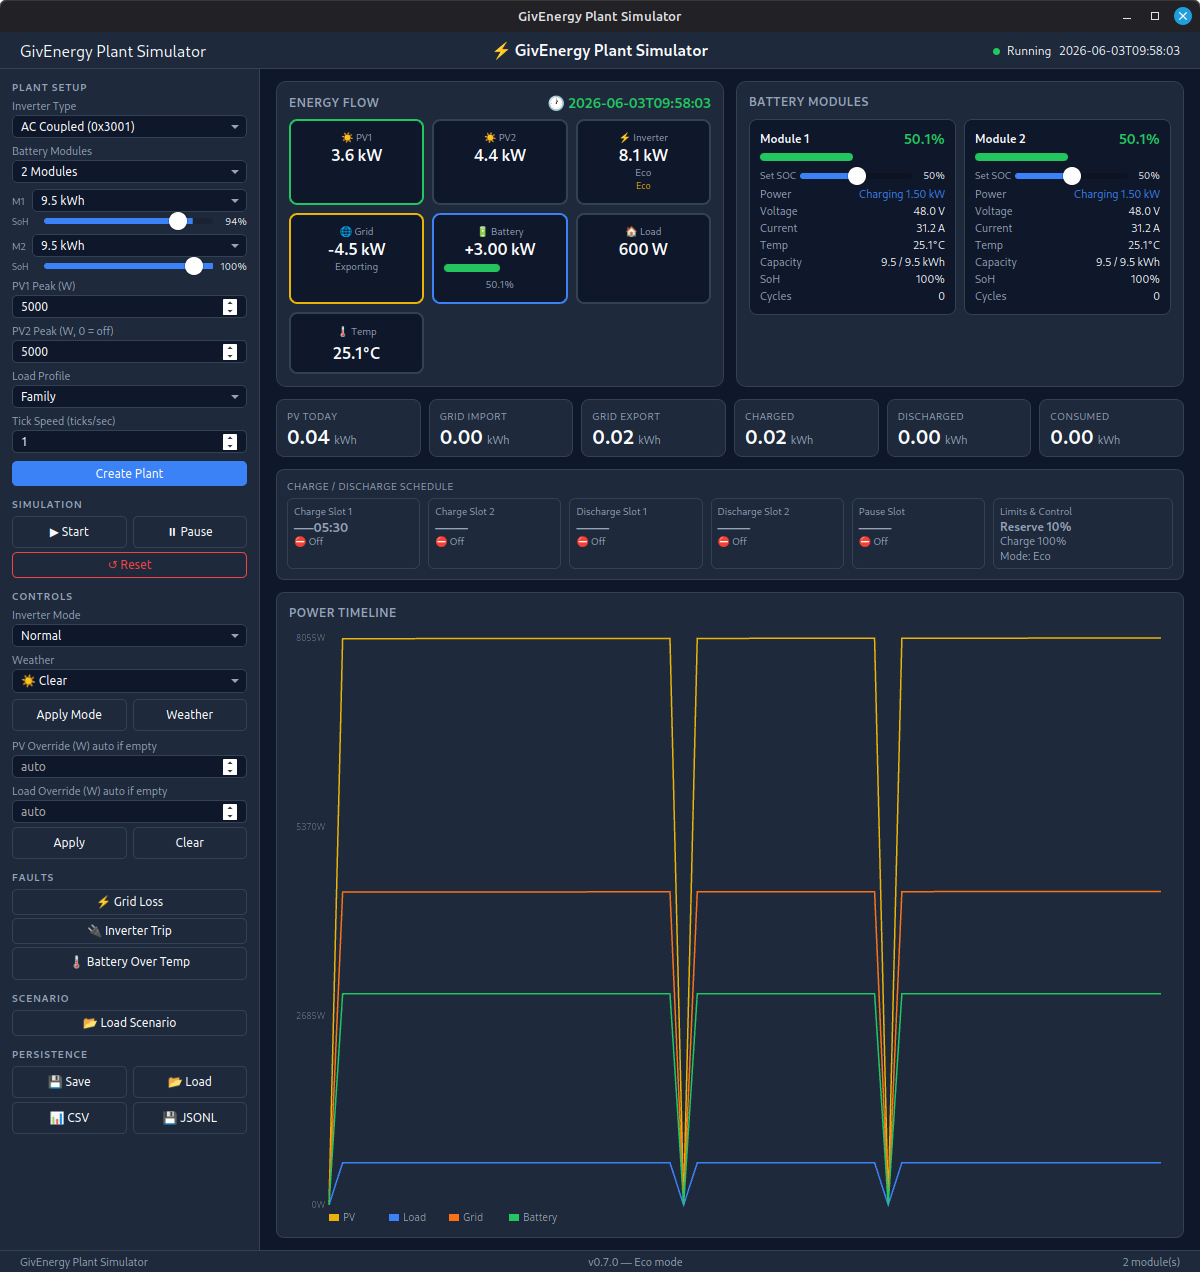
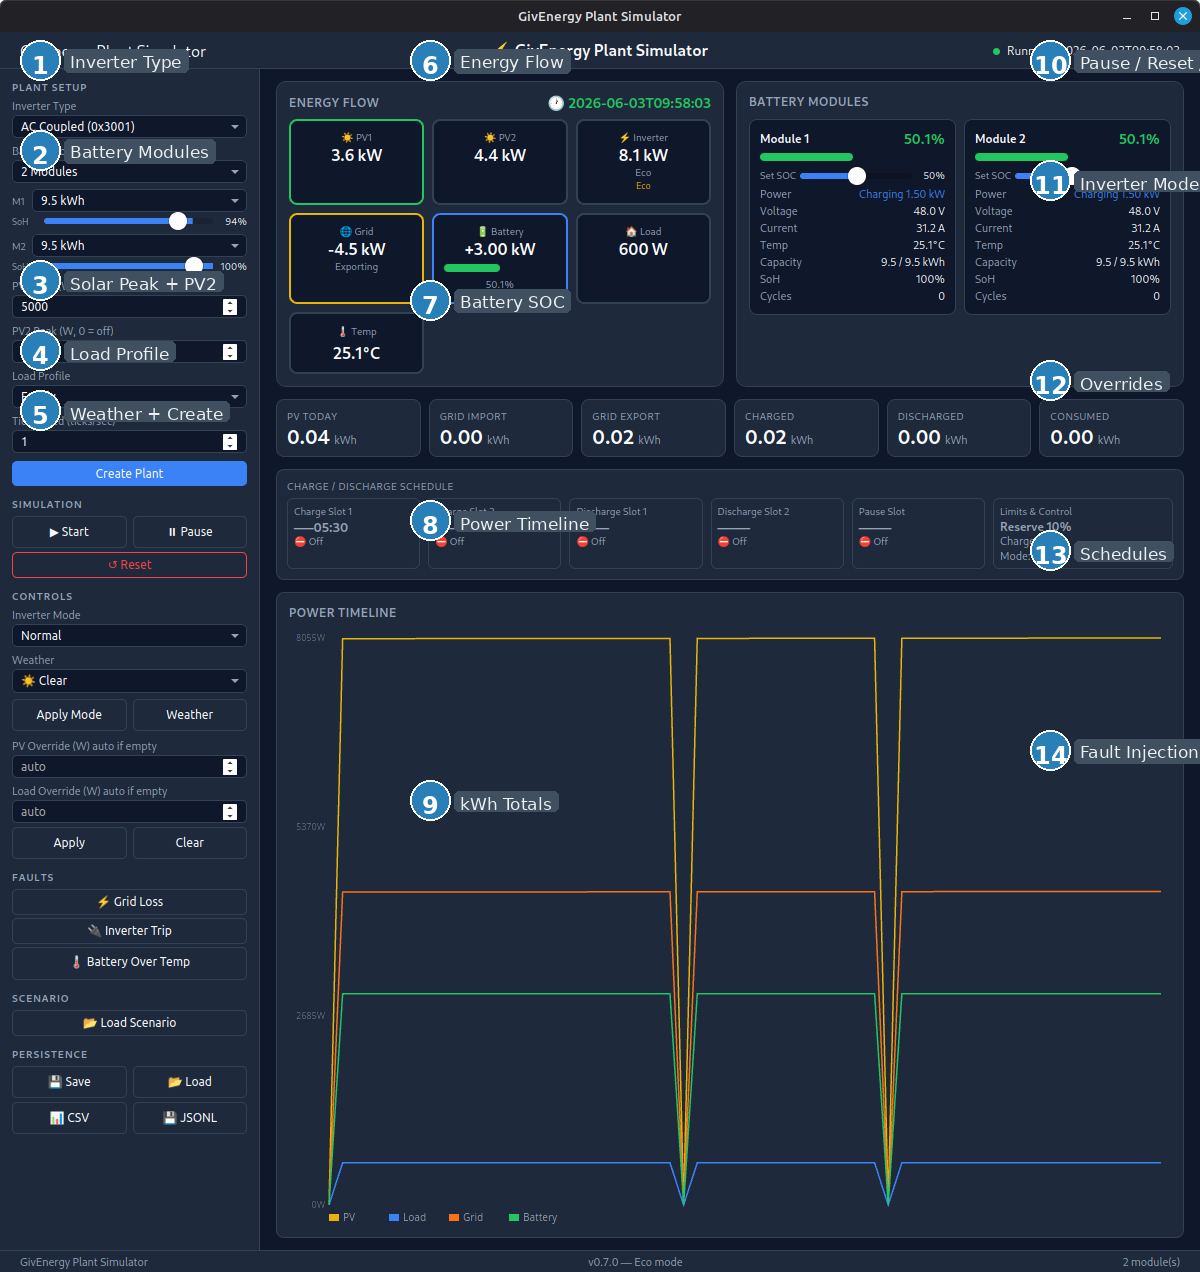
docs: annotate screenshot with 14 numbered UI regions + legend table

diff --git a/README.md b/README.md
@@ -18,6 +18,23 @@ A digital twin of a GivEnergy solar PV + battery storage system. Model your Gen3
 
 ![GivEnergy Plant Simulator Dashboard](docs/screenshot.png)
 
+| # | Area |
+|---|------|
+| 1 | Inverter type selector |
+| 2 | Battery module config (capacity + SOH slider) |
+| 3 | Solar peak + optional PV2 peak |
+| 4 | Load profile and weather |
+| 5 | **Create Plant** button |
+| 6 | Energy flow diagram — live power arrows between Solar, Battery, Grid, Load |
+| 7 | Battery SOC gauges — per-module cards with voltage, current, temp, capacity, SoH |
+| 8 | Power timeline — scrolling 4-trace chart |
+| 9 | Cumulative kWh totals — import, export, solar, consumption, charge, discharge |
+| 10 | Pause / Reset / Tick speed |
+| 11 | Inverter mode selector |
+| 12 | Solar / Load overrides + export limit |
+| 13 | Charge / Discharge schedules with SOC targets |
+| 14 | Fault injection buttons (Grid Loss, Inverter Trip, Battery Over-Temp) |
+
 ---
 
 ## Quick Start